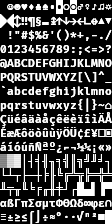
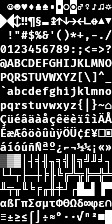
adding 9-bit font used on HP 264x terminals

diff --git a/src/net/torvald/tsvm/peripheral/GraphicsAdapter.kt b/src/net/torvald/tsvm/peripheral/GraphicsAdapter.kt
@@ -153,9 +153,11 @@ open class GraphicsAdapter(val vm: VM, val config: AdapterConfig) :
             spriteAndTextArea[k + memTextOffset] = 0
         }
 
-        unusedArea[0] = 2
-        unusedArea[1] = 3
-        unusedArea[2] = 4
+        if (theme.contains("color")) {
+            unusedArea[0] = 2
+            unusedArea[1] = 3
+            unusedArea[2] = 4
+        }
 
         setCursorPos(0, 0)
 
@@ -882,8 +884,6 @@ uniform vec2 tilesInAtlas = ivec2(16.0, 16.0);
 uniform vec2 atlasTexSize = ivec2(128.0, 224.0);
 vec2 tileSizeInPx = atlasTexSize / tilesInAtlas; // should be like ivec2(16, 16)
 
-float fontGamma = 1.8;
-
 ivec2 getTileXY(int tileNumber) {
     return ivec2(tileNumber % int(tilesInAtlas.x), tileNumber / int(tilesInAtlas.x));
 }
@@ -898,15 +898,6 @@ int _colToInt(vec4 color) {
 int getTileFromColor(vec4 color) {
     return _colToInt(color) & 0xFFFFF;
 }
-
-vec4 fontMix(vec4 zero, vec4 one, float scale) {
-    return vec4(zero.r * (1 - pow(scale, fontGamma)) + one.r * pow(scale, fontGamma),
-                zero.g * (1 - pow(scale, fontGamma)) + one.g * pow(scale, fontGamma),
-                zero.b * (1 - pow(scale, fontGamma)) + one.b * pow(scale, fontGamma),
-                zero.a * (1 - pow(scale, fontGamma)) + one.a * pow(scale, fontGamma)
-               );
-}
-
 
 void main() {
 
@@ -945,7 +936,7 @@ void main() {
 
     // apply colour. I'm expecting FONT ROM IMAGE to be greyscale
     // TODO non-linear mix with gamma 2.2
-    gl_FragColor = fontMix(backColFromMap, foreColFromMap, tileCol.r);
+    gl_FragColor = mix(backColFromMap, foreColFromMap, tileCol.r);
 }
 """.trimIndent()
 

diff --git a/src/net/torvald/tsvm/peripheral/TexticsAdapter.kt b/src/net/torvald/tsvm/peripheral/TexticsAdapter.kt
@@ -5,18 +5,30 @@ import com.badlogic.gdx.graphics.Texture
 import net.torvald.tsvm.VM
 import net.torvald.tsvm.kB
 
-class TexticsAdapter(vm: VM, theme: String) : GraphicsAdapter(vm, AdapterConfig(
-    "crt_green",
+class TexticsAdapter(vm: VM) : GraphicsAdapter(vm, AdapterConfig(
+    "crt",
+    720,
+    375,
+    80,
+    25,
+    254,
+    255,
+    256.kB(),
+    "./hp2640.png",
+    0.32f
+)) {
+/*class TexticsAdapter(vm: VM) : GraphicsAdapter(vm, AdapterConfig(
+    "crt_color",
     560,
     448,
     80,
     32,
-    239,
-    0,
+    254,
+    255,
     256.kB(),
     "./cp437_fira_code.png",
-    0.7f
-)) {
+    0.64f
+)) {*/
 
     override fun peek(addr: Long): Byte? {
         return when (addr) {

diff --git a/src/net/torvald/tsvm/VMGUI.kt b/src/net/torvald/tsvm/VMGUI.kt
@@ -33,9 +33,9 @@ class VMGUI(val vm: VM, val appConfig: LwjglApplicationConfiguration) : Applicat
     override fun create() {
         super.create()
 
-        //gpu = TexticsAdapter(vm, theme = GraphicsAdapter.THEME_COLORCRT)
         //gpu = GraphicsAdapter(vm, GraphicsAdapter.DEFAULT_CONFIG_COLOR_CRT)
-        gpu = CharacterLCDdisplay(vm)
+        gpu = TexticsAdapter(vm)
+        //gpu = CharacterLCDdisplay(vm)
 
         vm.peripheralTable[1] = PeripheralEntry(
             VM.PERITYPE_GPU_AND_TERM,

diff --git a/src/net/torvald/tsvm/AppLoader.java b/src/net/torvald/tsvm/AppLoader.java
@@ -22,8 +22,8 @@ public class AppLoader {
         appConfig.resizable = false;
         appConfig.title = appTitle;
         appConfig.forceExit = true;
-        appConfig.width = 960;//560;
-        appConfig.height = 400;//448;
+        appConfig.width = 720;//560;
+        appConfig.height = 375;//448;
 
 
         // val vm = VM(64.kB(), TheRealWorld(), arrayOf(GenericBios))
